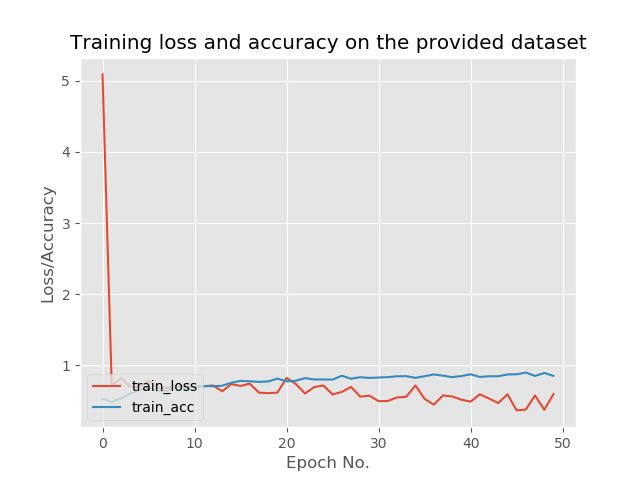
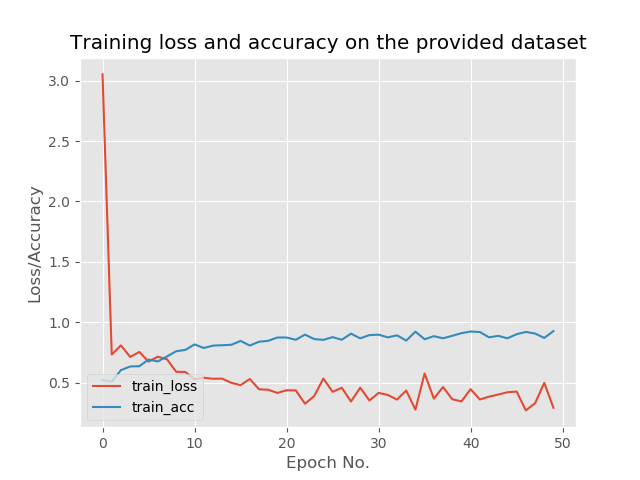
Fixed accuracy representatoin
fixed classificication report, confusion matrix, things that ive been stuck on since last commit. Cleaned up alot of the code, going to add functions next for better practice.

diff --git a/retinaCore.py b/retinaCore.py
@@ -1,8 +1,8 @@
 from keras.preprocessing.image import ImageDataGenerator, array_to_img, img_to_array, load_img
 import os
 os.environ['TF_CPP_MIN_LOG_LEVEL']='3'
-
-from sklearn.metrics import confusion_matrix, classification_report
+from sklearn.model_selection import train_test_split
+from sklearn.metrics import confusion_matrix, classification_report, accuracy_score
 from keras.models import Sequential
 from keras.layers import SeparableConv2D, BatchNormalization, MaxPooling2D, Activation, Dropout, Flatten, Dense
 from keras import backend as K
@@ -10,7 +10,6 @@ import matplotlib.pyplot as plt
 
 import numpy as np
 from keras.callbacks import History
-#from imutils import paths
 history = History()
 
 os.environ['KMP_WARNINGS'] = '0'
@@ -34,11 +33,11 @@ datagen = ImageDataGenerator(
 	#validation_split=0.2, 
 	fill_mode='nearest')
 
-img = load_img('data/train/cats/cat.1.jpg')
+img = load_img('data/train/dogs/dog.1.jpg')
 
 imgArray = img_to_array(img)
 imgArray = imgArray.reshape((1,) + imgArray.shape)
-print(imgArray.shape)
+#print(imgArray.shape)
 
 path = 'imgPreview'
 if os.path.exists(path) == False:
@@ -53,7 +52,7 @@ else:
 
 
 i = 0
-for batch in datagen.flow(imgArray, batch_size=1, save_to_dir=path, save_prefix='cats', save_format='jpeg'):
+for batch in datagen.flow(imgArray, batch_size=1, save_to_dir=path, save_prefix='dogs', save_format='jpeg'):
 	i += 1
 
 	if i > 20:
@@ -94,6 +93,7 @@ model.add(Activation('sigmoid'))
 
 model.compile(loss='binary_crossentropy', optimizer='rmsprop', metrics=['accuracy'])
 
+nEpochSteps = 125
 
 batch_size = 16
 
@@ -131,38 +131,41 @@ test_generator = valAug.flow_from_directory(
 
 M = model.fit_generator(
 	train_generator,
-	steps_per_epoch=125,#2000//batch_size,
+	steps_per_epoch=nEpochSteps,#2000//batch_size,
 	epochs=50,
 	validation_data=validation_generator,
 	validation_steps=800//batch_size)
 
-predIndices = model.predict_generator(test_generator, steps=125)#((2000//batch_size)+1))
+predIndices = model.predict_generator(test_generator, steps=nEpochSteps)#((2000//batch_size)+1))
 
-predIndices = np.argmax(predIndices, axis=1)
-
-print(classification_report(test_generator.classes, predIndices, target_names=test_generator.class_indices.keys()))
-
-cm = confusion_matrix(test_generator.classes, predIndices)
-
-total=sum(sum(cm))
-accuracy=(cm[0, 0]+cm[1, 1])/total
-specificity=cm[1, 1]/(cm[1, 0]+cm[1, 1])
-sensitvity=cm[0, 0]/(cm[0, 0]+cm[0, 1])
-print(cm)
-print(f'Accuracy: {accuracy}')
-print(f'Specificity: {specificity}')
-print(f'Sensitvity: {sensitvity}')
+a=test_generator.classes.tolist()
+b = predIndices.tolist()
 
 
-print(M.history.keys())
+y = []
+a = [float(i) for i in a]
+
+
+for n in b:
+	for k in n:
+		y.append(k)
+
+z = []
+for floats in y:
+	z.append(round(floats))
+y = z
+
+print(confusion_matrix(a, y))
+print(classification_report(a, y,))# target_names=test_generator.class_indices.keys()))
+
+
+
 
 
 plt.style.use('ggplot')
 plt.figure()
 plt.plot(np.arange(0, 50), M.history['loss'], label='train_loss')
-#plt.plot(np.arange(0, 50), M.history['val_loss'], label='val_loss')
 plt.plot(np.arange(0, 50), M.history['accuracy'], label='train_acc')
-#plt.plot(np.arange(0, 50), M.history['val_acc'], label='val_acc')
 
 plt.title('Training loss and accuracy on the provided dataset')
 plt.xlabel('Epoch No.')
@@ -170,10 +173,6 @@ plt.ylabel('Loss/Accuracy')
 plt.legend(loc='lower left')
 plt.savefig('plot2.png')
 
+
 model.save_weights('first_try.h5')
-
-
-
-
-
 
